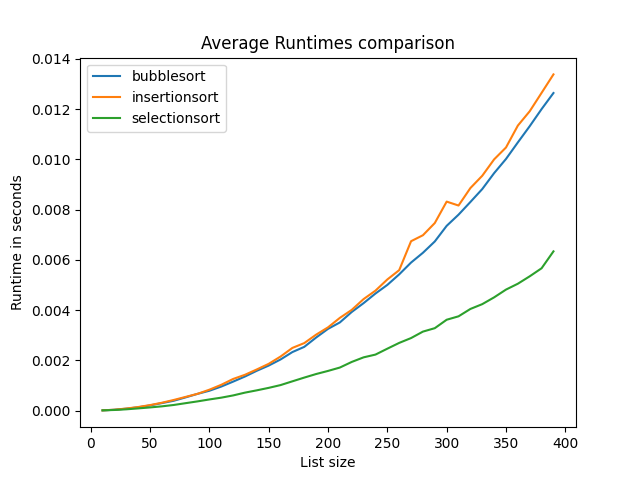
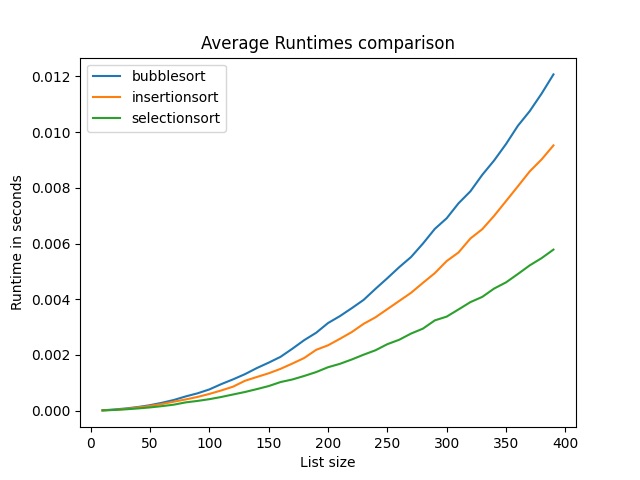
fixed insertion sort

diff --git a/Assignment 2/HW2_code.py b/Assignment 2/HW2_code.py
@@ -208,18 +208,18 @@ if __name__ == "__main__":
     #print("Selectionsort works") if check_validity(selectionsort) else print("Selectionsort failed")
 
     #compare times of sorting algorithms
-    #compare_times(bubblesort,insertionsort,selectionsort)
+    compare_times(bubblesort,insertionsort,selectionsort)
 
     #compare worst times
-    #compare_worst(bubblesort,insertionsort,selectionsort)
+    compare_worst(bubblesort,insertionsort,selectionsort)
 
     #compare average times
-    #compare_average(bubblesort,insertionsort,selectionsort)
+    compare_average(bubblesort,insertionsort,selectionsort)
     #compare best times
-    #compare_best(bubblesort,insertionsort,selectionsort)
+    compare_best(bubblesort,insertionsort,selectionsort)
     #compare best times on sorted list
-    #compare_best_sorted(bubblesort,insertionsort,selectionsort)
-    #compare_best_sorted(bubblesort,insertionsort)
+    compare_best_sorted(bubblesort,insertionsort,selectionsort)
+    compare_best_sorted(bubblesort,insertionsort)
     #compare best times on partially sorted lists
     compare_adaptive(bubblesort,insertionsort,selectionsort)
     #compare to theoretical

diff --git a/Assignment 2/sorting_algos.py b/Assignment 2/sorting_algos.py
@@ -19,6 +19,8 @@ def insertionsort(A):
                 if A[insert] < A[i-j]:
                     A[insert],A[i-j] = A[i-j],A[insert]
                     insert = i-j
+                else:
+                    break
     return A
 
 def selectionsort(A):
@@ -29,4 +31,5 @@ def selectionsort(A):
         A[len(A)-i-1],A[largest_index] = A[largest_index], A[len(A)-i-1]
     return A
 
-#if __name__ = "__main__":
+if __name__ == "__main__":
+    pass
